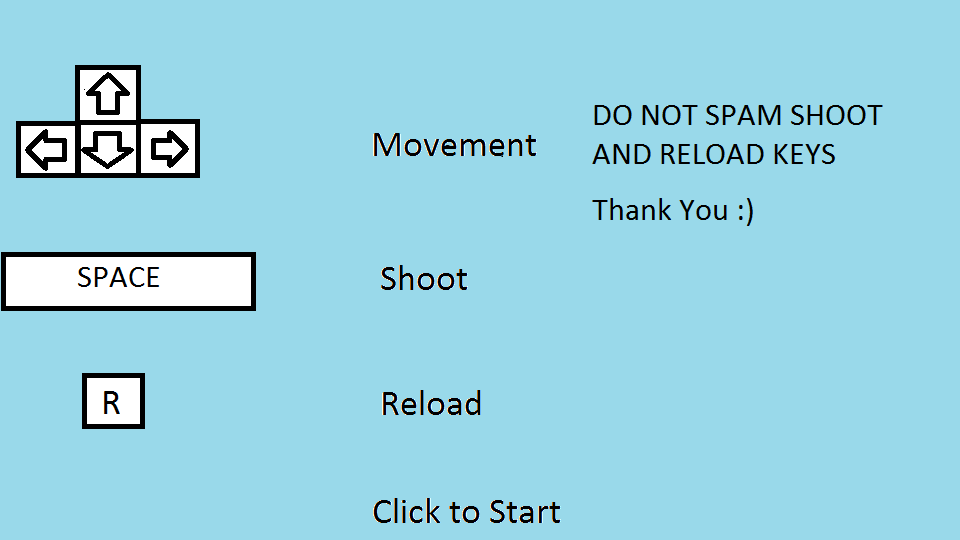
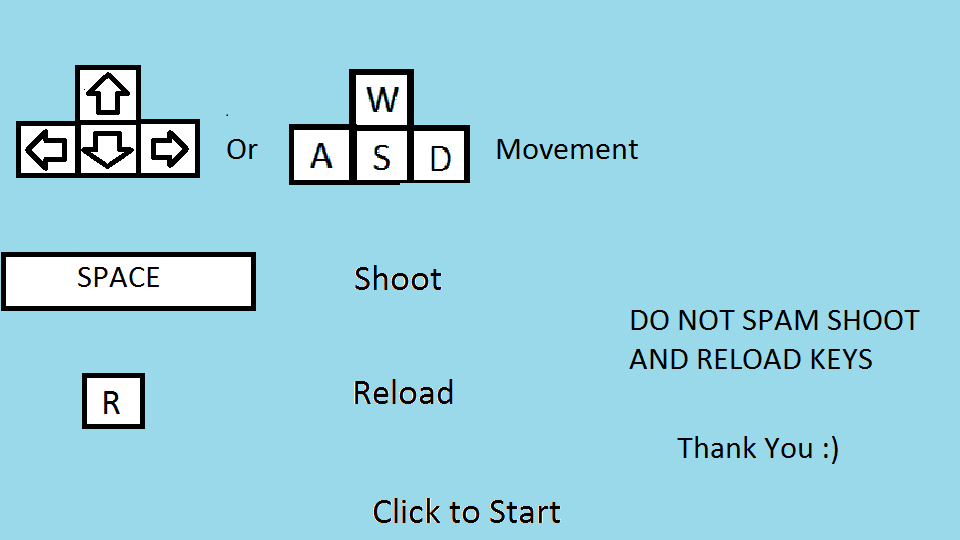
WASD Controls

diff --git a/Main.py b/Main.py
@@ -47,7 +47,22 @@ while True:
         if event.type == pygame.QUIT:
             # if someone tries to close the Windows
             exit()
-        # TODO: replace the reset with your designed input
+  # TODO: replace the reset with your designed input
+        if event.type == pygame.KEYDOWN:
+            if event.key == pygame.K_a:
+                game.sprite.x += -20
+              
+
+            if event.key == pygame.K_d:
+                game.sprite.x += 20
+          
+                
+                #state = "MovingLeft"            
+            if event.key == pygame.K_w:
+                game.sprite.y += -20
+            if event.key == pygame.K_s:
+                game.sprite.y += 20
+            
         if event.type == pygame.KEYDOWN:
             if event.key == pygame.K_LEFT:
                 game.sprite.x += -20
